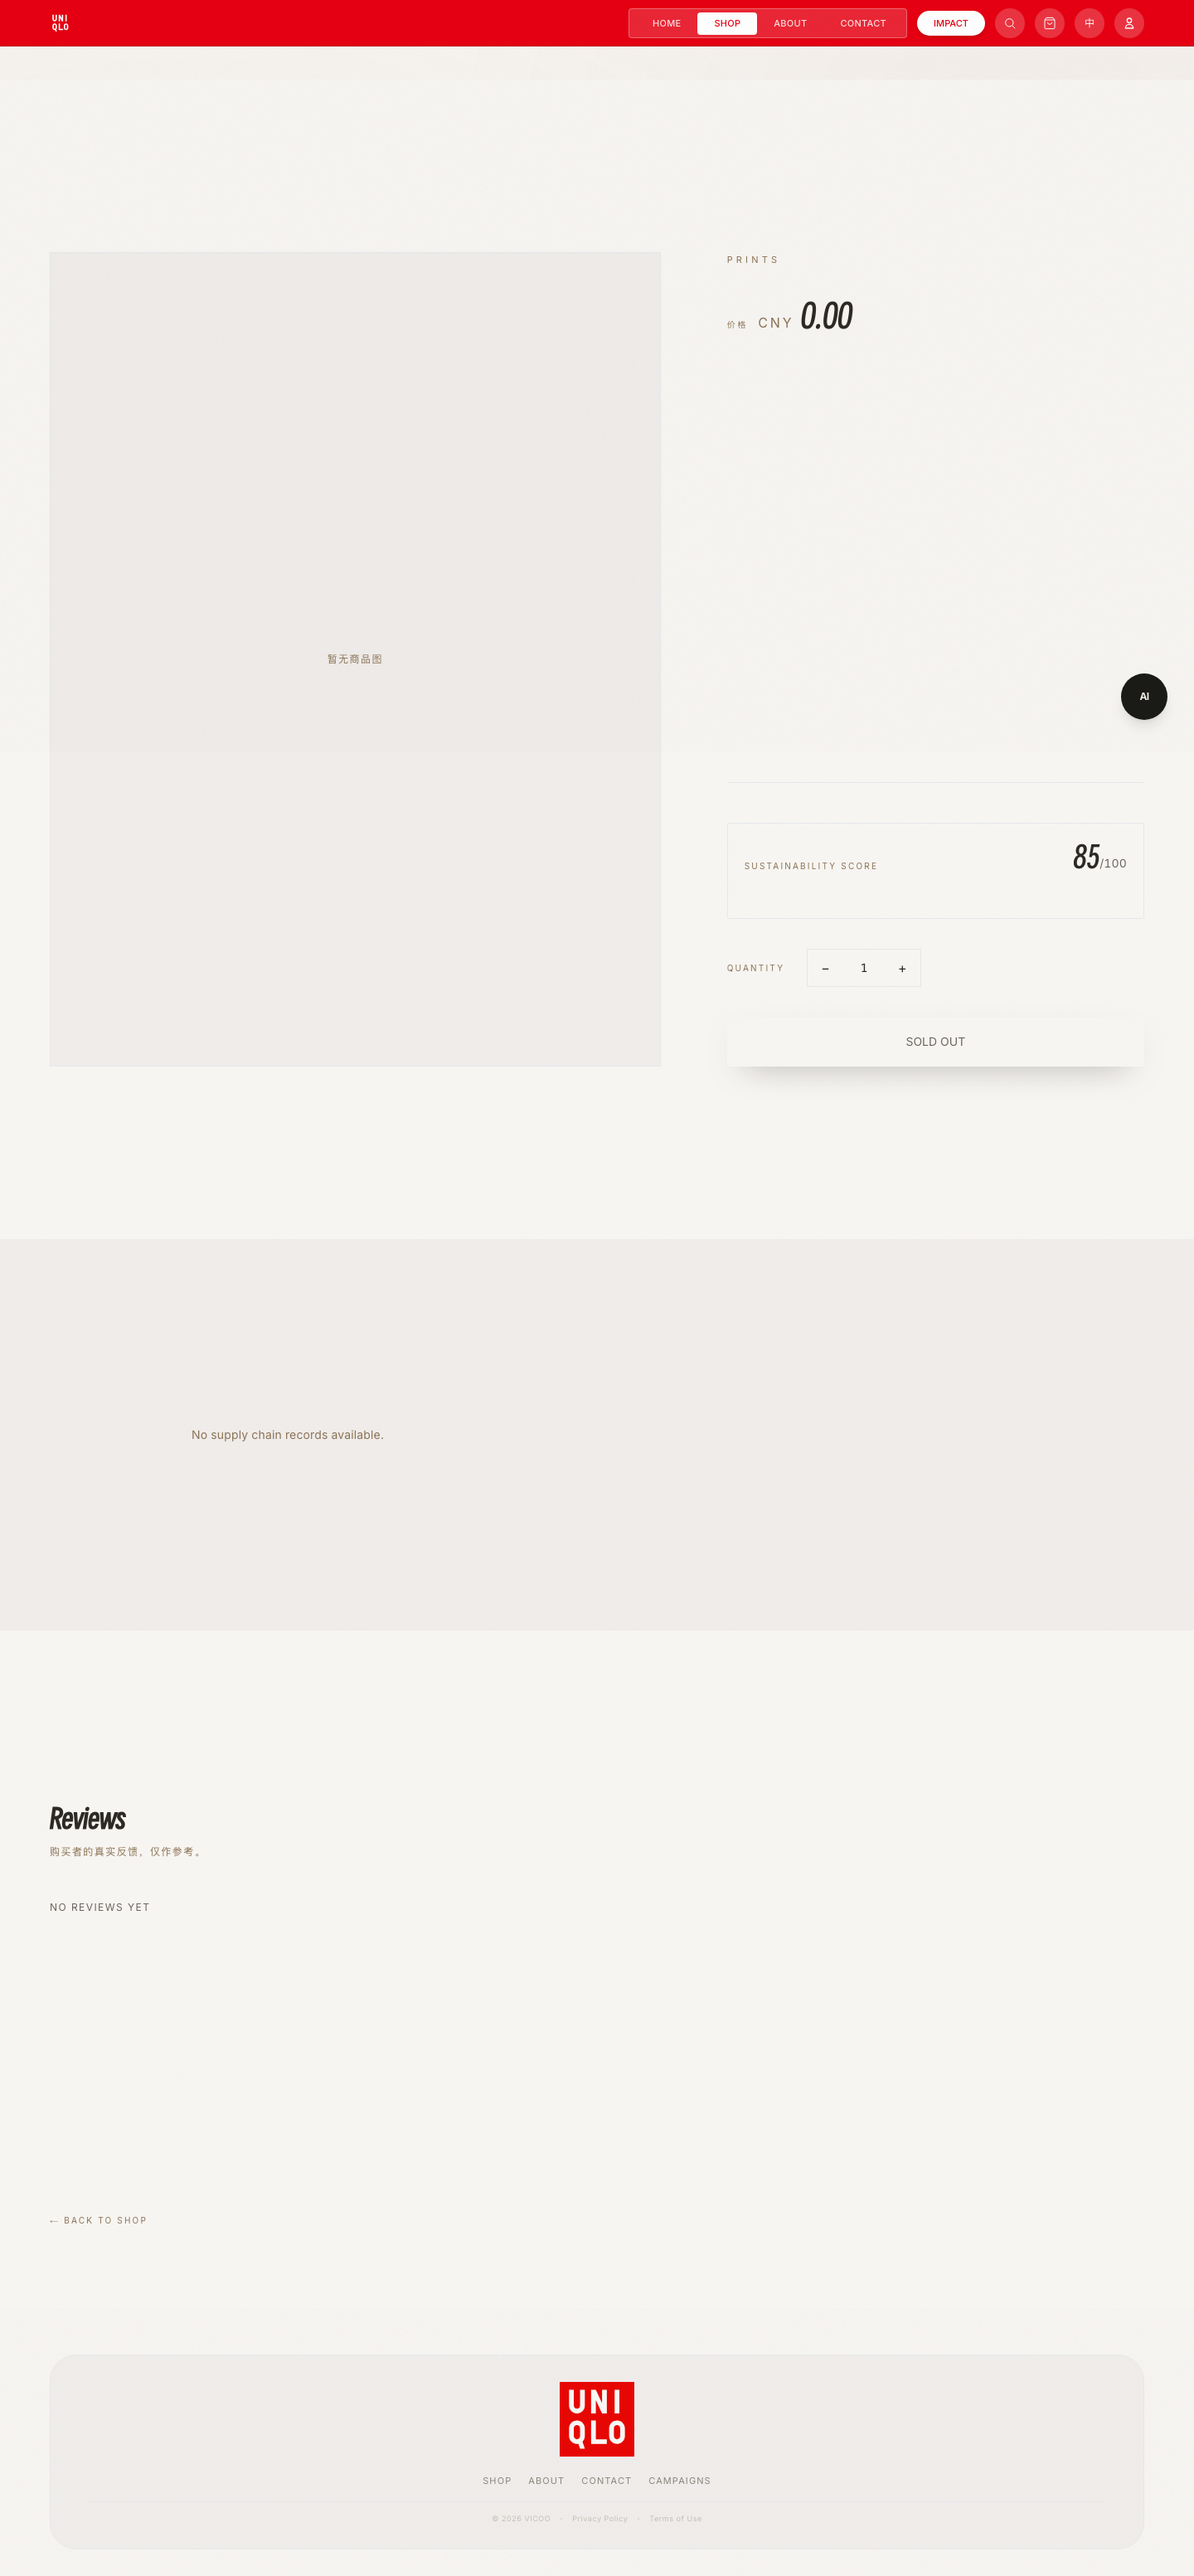
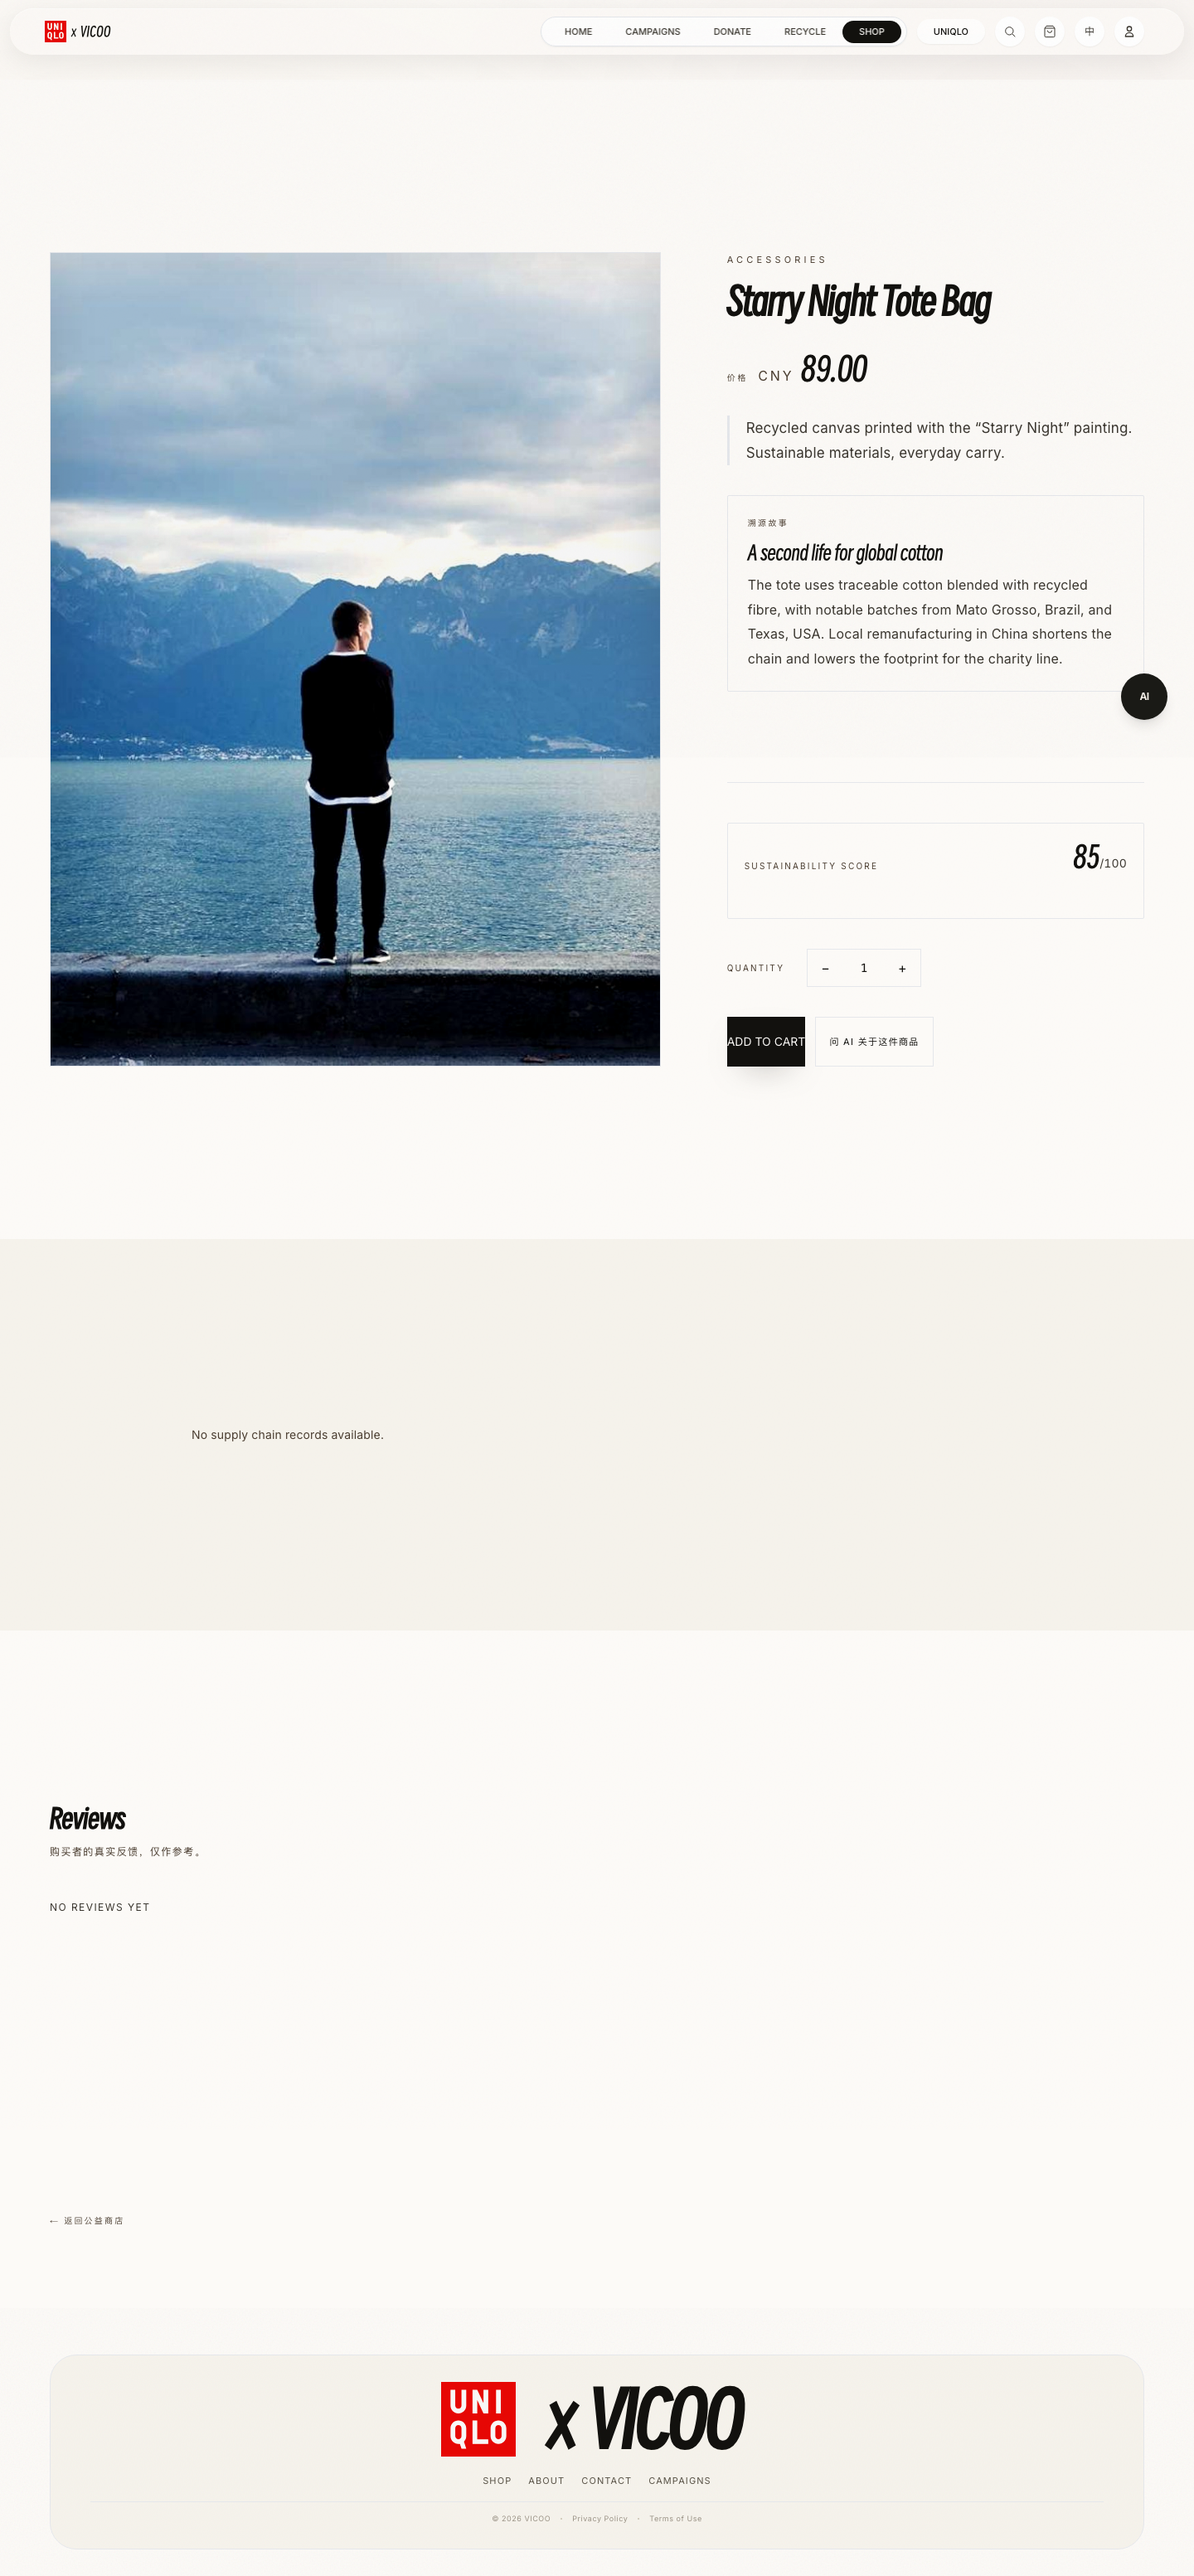
chore(docs): capture manual figures from vicoo.yhazrin.xyz
- Add playwright.manual-figures.config.ts (no local webServer).

- U1 homepage + U2 /impact/shop/2 on production; u1-homepage.png replaces u1-impact-shop.

- Update tex captions and npm screenshots:manual script.

Made-with: Cursor

diff --git a/frontend/web-react/e2e/manual-screenshots.spec.ts b/frontend/web-react/e2e/manual-screenshots.spec.ts
@@ -1,12 +1,14 @@
 /**
- * 生成用户文档配图（仓库 tex/user-manual-figures/）。
+ * 生成用户文档配图 → 仓库 tex/user-manual-figures/
  *
- * 前置条件：
- * - 消费者站点：默认 http://127.0.0.1:9111（playwright.config 的 webServer 可拉起）
- * - API：与 vite 代理一致（默认前端代理到 8080）
- * - 管理后台 U3：需单独启动 admin（http://127.0.0.1:5173），否则 U3 会被 skip
+ * 默认截取线上站点（与课程演示一致）：
+ *   U1 = MANUAL_U1_URL 或 baseURL + MANUAL_U1_PATH（默认首页 /）
+ *   U2 = MANUAL_U2_URL 或 baseURL + MANUAL_U2_PATH（默认 /impact/shop/2）
  *
- * 运行：cd frontend/web-react && npx playwright test e2e/manual-screenshots.spec.ts
+ * U3 仍为本地 admin（需另开终端 npm run dev）；不可用时 skip。
+ *
+ * 运行：cd frontend/web-react && npm run screenshots:manual
+ * （使用 playwright.manual-figures.config.ts，不拉起本地 9111）
  */
 import * as path from 'node:path';
 import * as fs from 'node:fs';
@@ -17,7 +19,23 @@ const __dirname = path.dirname(fileURLToPath(import.meta.url));
 const REPO_ROOT = path.resolve(__dirname, '..', '..', '..');
 const OUT_DIR = path.join(REPO_ROOT, 'tex', 'user-manual-figures');
 
-/** Vite 在部分环境下只监听 \`localhost\`（IPv6），与 \`127.0.0.1\` 不等价 */
+const DEFAULT_ORIGIN = (process.env.MANUAL_PUBLIC_ORIGIN ?? 'http://vicoo.yhazrin.xyz').replace(/\/$/, '');
+
+function absoluteUrl(pathOrUrl: string): string {
+  if (/^https?:\/\//i.test(pathOrUrl)) return pathOrUrl;
+  const p = pathOrUrl.startsWith('/') ? pathOrUrl : `/${pathOrUrl}`;
+  return `${DEFAULT_ORIGIN}${p}`;
+}
+
+const U1_TARGET =
+  process.env.MANUAL_U1_URL?.trim() ||
+  absoluteUrl(process.env.MANUAL_U1_PATH?.trim() || '/');
+
+const U2_TARGET =
+  process.env.MANUAL_U2_URL?.trim() ||
+  absoluteUrl(process.env.MANUAL_U2_PATH?.trim() || '/impact/shop/2');
+
+/** Vite 在部分环境下只监听 localhost（IPv6） */
 const ADMIN_ORIGIN = process.env.MANUAL_ADMIN_ORIGIN ?? 'http://localhost:5173';
 const ADMIN_EMAIL = process.env.MANUAL_ADMIN_EMAIL ?? 'admin@tonghua.org';
 const ADMIN_PASSWORD = process.env.MANUAL_ADMIN_PASSWORD ?? 'vicoo-admin';
@@ -28,20 +46,20 @@ test.beforeAll(() => {
   fs.mkdirSync(OUT_DIR, { recursive: true });
 });
 
-test('U1: Impact shop grid', async ({ page }) => {
-  await page.goto('/impact/shop', { waitUntil: 'domcontentloaded' });
+test('U1: Homepage (production)', async ({ page }) => {
+  await page.goto(U1_TARGET, { waitUntil: 'domcontentloaded' });
   await page.waitForLoadState('networkidle').catch(() => {});
   await expect(page.locator('body')).toBeVisible();
   await page.screenshot({
-    path: path.join(OUT_DIR, 'u1-impact-shop.png'),
+    path: path.join(OUT_DIR, 'u1-homepage.png'),
     fullPage: true,
   });
 });
 
-test('U2: Globe + timeline on impact product detail', async ({ page }) => {
-  await page.goto('/impact/shop/1', { waitUntil: 'domcontentloaded' });
+test('U2: Globe + timeline — impact product detail (production)', async ({ page }) => {
+  await page.goto(U2_TARGET, { waitUntil: 'domcontentloaded' });
   await page.waitForLoadState('networkidle').catch(() => {});
-  await page.waitForTimeout(2500);
+  await page.waitForTimeout(4000);
   await page.screenshot({
     path: path.join(OUT_DIR, 'u2-globe-timeline.png'),
     fullPage: true,

diff --git a/frontend/web-react/playwright.manual-figures.config.ts b/frontend/web-react/playwright.manual-figures.config.ts
@@ -1,0 +1,30 @@
+/**
+ * 仅用于生成用户手册配图：直连线上站点，不启动本地 webServer。
+ *
+ *   cd frontend/web-react && npm run screenshots:manual
+ */
+import { defineConfig, devices } from '@playwright/test';
+
+const origin = process.env.MANUAL_PUBLIC_ORIGIN ?? 'http://vicoo.yhazrin.xyz';
+
+export default defineConfig({
+  testDir: './e2e',
+  fullyParallel: false,
+  forbidOnly: !!process.env.CI,
+  retries: 0,
+  workers: 1,
+  reporter: 'list',
+  use: {
+    baseURL: origin.replace(/\/$/, ''),
+    trace: 'off',
+    locale: 'en-US',
+    viewport: { width: 1440, height: 900 },
+    ignoreHTTPSErrors: true,
+  },
+  projects: [
+    {
+      name: 'chromium',
+      use: { ...devices['Desktop Chrome'], viewport: { width: 1440, height: 900 } },
+    },
+  ],
+});

diff --git a/tex/7_user_draft (2).tex b/tex/7_user_draft (2).tex
@@ -24,7 +24,7 @@
 \titleformat{\section}{\Large\bfseries}{\thesection}{0.6em}{}
 \titleformat{\subsection}{\large\bfseries}{\thesubsection}{0.6em}{}
 \newcommand{\projectname}{VICOO-ESP}
-% 本文件位于仓库 \texttt{tex/}；配图在同目录 \texttt{user-manual-figures/}（Playwright 生成）。需 API + 消费者站点（9111）；U3 需 admin（\texttt{cd admin \&\& npm run dev}，部分环境为 \texttt{http://localhost:5173}）。
+% 本文件位于仓库 \texttt{tex/}；配图在同目录 \texttt{user-manual-figures/}。默认用 Playwright 截 \texttt{http://vicoo.yhazrin.xyz/} 与 \texttt{/impact/shop/2}（见 \texttt{playwright.manual-figures.config.ts}）；U3 仍为本地 admin。
 %   \texttt{cd frontend/web-react \&\& npm run screenshots:manual}
 % 编译请在 \texttt{tex/} 下执行 \texttt{pdflatex "7\_user\_draft (2).tex"}，或将整个 \texttt{tex/} 上传 Overleaf。
 \newcommand{\placeholder}[1]{\begin{figure}[H]\centering\fbox{\parbox[c][4.2cm][c]{0.86\linewidth}{\centering #1}}\end{figure}}
@@ -115,9 +115,9 @@ Consumer users can access the following (route names refer to the consumer app):
 \textbf{Expected result:}
 The detail page loads; navigation back to the correct shop (\texttt{/shop} vs \texttt{/impact/shop}) works. Layout is readable and consistent with the design system.
 
-\IfFileExists{user-manual-figures/u1-impact-shop.png}{%
-\begin{figure}[H]\centering\includegraphics[width=0.94\linewidth]{user-manual-figures/u1-impact-shop.png}\caption*{Figure U1: Impact shop (\texttt{/impact/shop}).}\end{figure}%
-}{\placeholder{Generate \texttt{user-manual-figures/u1-impact-shop.png} via \texttt{npm run screenshots:manual}.}}
+\IfFileExists{user-manual-figures/u1-homepage.png}{%
+\begin{figure}[H]\centering\includegraphics[width=0.94\linewidth]{user-manual-figures/u1-homepage.png}\caption*{Figure U1: Site homepage (\texttt{http://vicoo.yhazrin.xyz/}).}\end{figure}%
+}{\placeholder{Generate \texttt{user-manual-figures/u1-homepage.png} via \texttt{npm run screenshots:manual}.}}
 
 \subsection{Typical Flow 2: Traceability Globe (Impact Products)}
 \label{sec:globe}
@@ -135,7 +135,7 @@ The detail page loads; navigation back to the correct shop (\texttt{/shop} vs \t
 Nodes respond to input; selected stage information matches API data. If WebGL fails, note browser, GPU, and console errors.
 
 \IfFileExists{user-manual-figures/u2-globe-timeline.png}{%
-\begin{figure}[H]\centering\includegraphics[width=0.94\linewidth]{user-manual-figures/u2-globe-timeline.png}\caption*{Figure U2: Traceability globe and timeline (\texttt{/impact/shop/1}).}\end{figure}%
+\begin{figure}[H]\centering\includegraphics[width=0.94\linewidth]{user-manual-figures/u2-globe-timeline.png}\caption*{Figure U2: Traceability globe and timeline (\texttt{/impact/shop/2}).}\end{figure}%
 }{\placeholder{Generate \texttt{user-manual-figures/u2-globe-timeline.png} via \texttt{npm run screenshots:manual}.}}
 
 \subsection{Typical Flow 3: Timeline and Scroll Behaviour}
